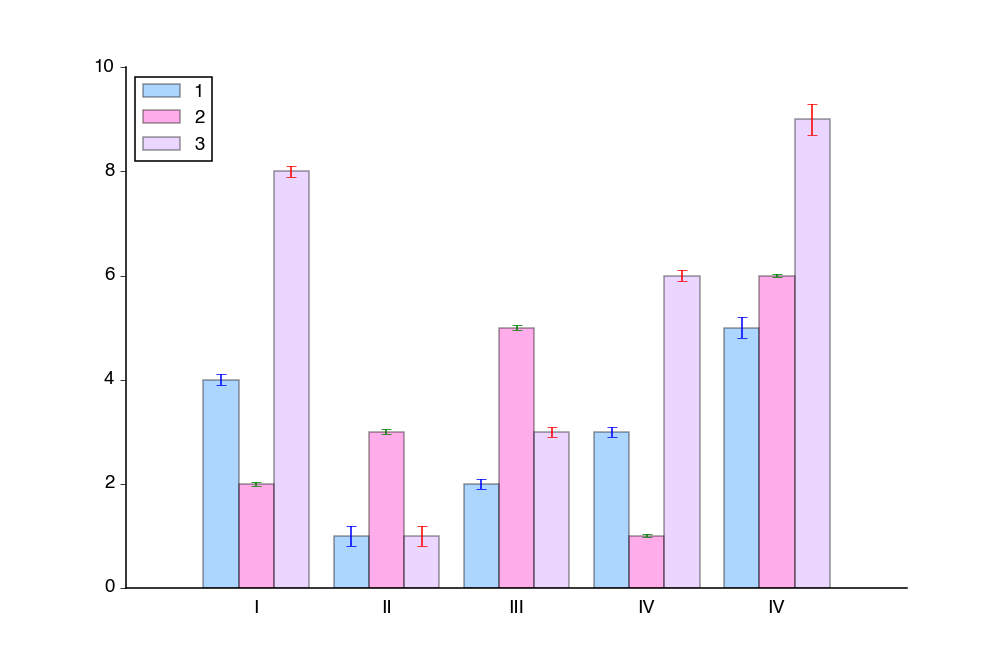
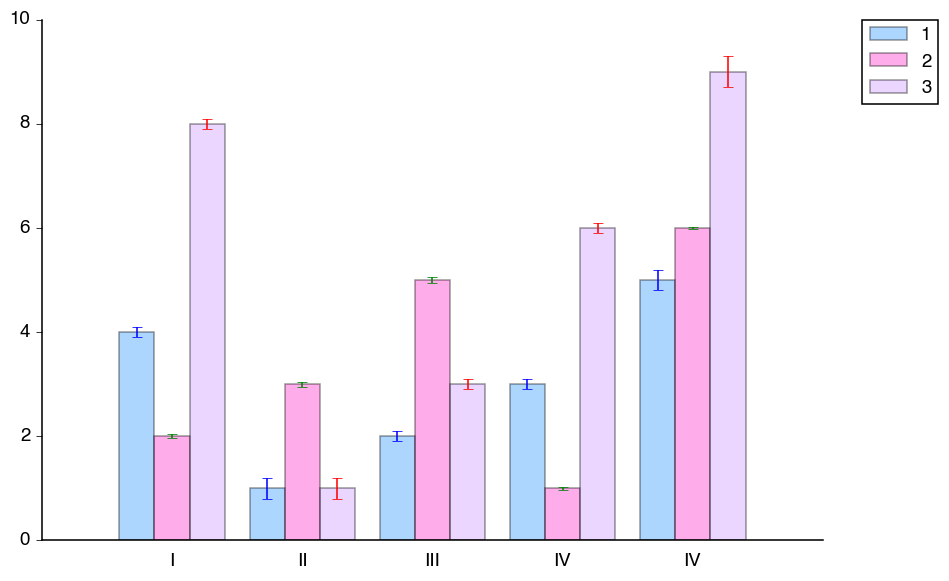
modified 062915

diff --git a/Plots/PublicationFigures.py b/Plots/PublicationFigures.py
@@ -17,8 +17,8 @@ import matplotlib.pyplot as plt
 import matplotlib
 matplotlib.use('Agg') # use 'Agg' backend
 
-plotType = 'beeswarm'
-Style = 'Twin'
+plotType = 'barplot'
+Style = 'Vstack'
 exampleFolder = 'C:/Users/Edward/Documents/Assignments/Scripts/Python/Plots/example/'
 
 
@@ -59,7 +59,7 @@ class PublicationFigures(object):
             self.SavePath = SavePath
         if self.SavePath is None: # save to current working directory
             self.SavePath = os.path.join(os.getcwd(),'Figure.eps')
-        self.fig.savefig(self.SavePath)
+        self.fig.savefig(self.SavePath, bbox_inches='tight')
         
     """ ####################### Plot utilities ####################### """      
     def Traces(self, groupings=None, scalebar=True, annotation=None, 
@@ -123,8 +123,10 @@ class PublicationFigures(object):
         
         self.SetDefaultAxis()
         self.axs.xaxis.set_ticks_position('none')
-        plt.xticks(self.x, self.data.series['x'][0])
-        self.axs.legend(loc=0)
+        #plt.xticks(self.x, self.data.series['x'][0])
+        self.SetCategoricalXAxis()
+        if n>0: # for multiple series, add legend
+            self.axs.legend(bbox_to_anchor=(1.05, 1), loc=2, borderaxespad=0.)
        
     def Histogram(self):
         """Plot histogram"""
@@ -156,6 +158,7 @@ class PublicationFigures(object):
         self.fig = plt.gcf()
      
     def LinePlot(self, Style='Vstack'):
+        self.x = range(len(self.data.series['x'][0])) # set categorical x
         if Style == "Vstack":
             self.LinePlotVstack()
         elif Style == "Twin":
@@ -163,30 +166,30 @@ class PublicationFigures(object):
         else:
             TypeError('Unrecognized Line Plot Style')
         self.SetAspectRatio(r=2, adjustable='box-forced',continuous=True)
-        self.SetLineXAxis() # make some space for each category        
+        self.SetCategoricalXAxis() # make some space for each category
+        # Add some margins to the plot so that it is not touching the axes
+        plt.margins(0.25,0.25)
 
     def LinePlotTwin(self, colors=('k','r')):
         """ Line plots with 2 y-axis"""
-        self.x = range(1,len(self.data.series['x'][0])+1)
         self.fig, self.axs = plt.subplots(nrows=1,ncols=1, sharex=True)
         self.axs = [self.axs, self.axs.twinx()]
         for n, ax in enumerate(self.axs):
              # Plot error bar
-            ax.errorbar(self.x,self.data.series['y'][n],
-                yerr = [self.data.stats['y']['ebp'][n],
-                self.data.stats['y']['ebn'][n]], color=colors[n])
+            ax.errorbar(self.x, self.data.series['y'][n], color=colors[n],
+                        yerr = [self.data.stats['y']['ebp'][n],
+                                self.data.stats['y']['ebn'][n]])
         self.SetTwinPlotAxis(colors = colors) # set twin plot subplot axes
 
     def LinePlotVstack(self):
         """ Line plots stacked vertically"""
-        self.x = range(1,len(self.data.series['x'][0])+1)
         self.fig, self.axs = plt.subplots(nrows=self.data.num['y'],ncols=1,
                                           sharex=True)
         for n, ax in enumerate(self.axs):
             # Plot error bar
-            ax.errorbar(self.x,self.data.series['y'][n],
-                yerr = [self.data.stats['y']['ebp'][n],
-                self.data.stats['y']['ebn'][n]], color='k')
+            ax.errorbar(self.x,self.data.series['y'][n], color='k',
+                        yerr = [self.data.stats['y']['ebp'][n],
+                                self.data.stats['y']['ebn'][n]])
         self.SetVstackAxis() # set vertical stacked subplot axes
         
     """ ####################### Axis schemas ####################### """
@@ -242,13 +245,17 @@ class PublicationFigures(object):
                 ax.spines['bottom'].set_visible(False)   
         self.fig.tight_layout(h_pad=0.01)
                        
-    def SetLineXAxis(self): # additional for plots with categorical data
+    def SetCategoricalXAxis(self): # additional for plots with categorical data        
         # change the x lim on the last, most buttom subplot
-        self.axs[-1].set_xlim([0,len(self.data.series['x'][0])+1])
-        plt.xticks(self.x, self.data.series['x'][0]) # x label
-        # Add some margins to the plot so that it is not touching the axes
-        plt.margins(0.025,0.025)
-        
+        if isinstance(self.axs, np.ndarray):
+            ax = self.axs[-1]
+        else: # single axis object
+            ax = self.axs
+        if ax.get_xlim()[0] >= self.x[0]:
+            ax.set_xlim(ax.get_xticks()[0]-1,ax.get_xlim()[-1])
+        if ax.get_xlim()[-1] <= self.x[-1]:
+            ax.set_xlim(ax.get_xlim()[0], ax.get_xticks()[-1]+1)
+        plt.xticks(self.x, self.data.series['x'][0])       
         
     def SetDiscontinousAxis(self, x=None, y=None):
         """Plot with discontious axis. Allows one discontinuity for each axis.
@@ -288,8 +295,7 @@ class PublicationFigures(object):
     def SetYTickLabelIncrement(self): ###???? need to consider
         def SYTLI(ax):        
             Y = ax.get_yticks()
-            minY, maxY = self.roundto125(np.min(Y)), self.roundto125(np.max(Y))
-            
+            minY, maxY = self.roundto125(np.min(Y)), self.roundto125(np.max(Y))    
         SYTLI_vec = np.vectorize(SYTLI) # vectorize closure
         SYTLI_vec(self.axs)
         
@@ -321,11 +327,11 @@ class PublicationFigures(object):
         xtext2, ytext2 = xi+X+X/10.0, yi+Y/2.0 # vertical
         # Draw text
         txt1 = self.axs.text(xtext1, ytext1, xlab, ha='center',va='top', 
+                             color=color)        
+        self.AdjustText(txt1) # adjust texts just added
+        txt2 = self.axs.text(xtext2, ytext2, ylab, ha='left',va='center',
                              color=color)
-        self.AdjustText(txt1)
-        txt2 = self.axs.text(xtext2, ytext2, ylab, ha='left',va='center', 
-                             color=color)
-        self.AdjustText(txt2)
+        self.AdjustText(txt2) # adjust texts just added
         # Draw Scale bar
         self.axs.annotate("", xy=(xi,yi), xycoords='data',  # horizontal
                           xytext=(xi+X,yi), textcoords = 'data', 
@@ -337,11 +343,13 @@ class PublicationFigures(object):
                           annotation_clip=False,arrowprops=dict(arrowstyle="-",
                           connectionstyle="arc3", shrinkA=0, shrinkB=0, 
                           color=color))
+        #txtbb = txt1.get_bbox_patch().get_window_extent()
+        #print(txtbb.bounds)
+        #print(self.axs.transData.inverted().transform(txtbb).ravel())
         
     def TextAnnotation(self, text="", position='south'):
         return # not done yet
         
-    
     def AnnotateOnGroup(self, m, text='*', vpos=None):
         """Help annotate statistical significance over each group in Beeswarm /
         bar graph. Annotate several groups at a time.
@@ -360,8 +368,8 @@ class PublicationFigures(object):
         X = self.axs.get_xticks()
         for k in m:
             txt = self.axs.text(X[k], vpos, text, ha='center',va='top')
-        # adjust text so that it is not overlapping with data or title
-        self.AdjustText(txt)
+            # adjust text so that it is not overlapping with data or title
+            self.AdjustText(txt)
     
     def AnnotateBetweenGroups(self, m=0, n=1, text='*', hgap=0):
         """Help annotate statistical significance between two groups in the
@@ -405,14 +413,23 @@ class PublicationFigures(object):
                           connectionstyle="arc3", shrinkA=0, shrinkB=0))
                           
     def AdjustText(self,txt):
-        """Adjust text so that it is not overlapping with data or title"""
+        """Adjust text so that it is not being cutoff"""
+        #renderer = plt.gca().get_renderer_cache()
         txt.set_bbox(dict(facecolor='w', alpha=0, boxstyle='round, pad=1'))
-        txtbb = txt.get_bbox_patch().get_window_extent()
-        ymax = self.axs.transData.inverted().transform(txtbb).ravel()[-1]
-        ybnd = self.axs.get_ybound()
+        plt.draw() # update the text draw
+        txtbb = txt.get_bbox_patch().get_window_extent() # can specify render
+        xmin, ymin, xmax, ymax = tuple(self.axs.transData.inverted().
+                                        transform(txtbb).ravel())
+        xbnd, ybnd = self.axs.get_xbound(), self.axs.get_ybound()
+        if xmax > xbnd[-1]:
+            self.axs.set_xbound(xbnd[0], xmax)
+        if xmin < xbnd[0]:
+            self.axs.set_xbound(xmin, xbnd[-1])
         if ymax > ybnd[-1]:
             self.axs.set_ybound(ybnd[0], ymax)
-            
+        if ymin < ybnd[0]:
+            self.axs.set_ybound(ymin, ybnd[-1])
+        
     def RemoveAnnotation(self):
         """Remove all annotation and start over"""
         self.axs.texts = []
@@ -432,7 +449,8 @@ class PublicationFigures(object):
         """Change font properties of all axes
         fontsize: size of the font, specified in the global variable
         fontname: fullpath of the font, specified in the global variable
-        textsOnly: for annotation texts only, avoid iterating over other items
+        items: select a list of items to change font. ['title', 'xlab','ylab',
+               'xtick','ytick', 'texts','legend','legendtitle']
         """
         if (fontname is None) and (fontsize is None):
             return
@@ -441,9 +459,11 @@ class PublicationFigures(object):
         def CF(ax):
             itemDict = {'title':[ax.title], 'xlab':[ax.xaxis.label], 
                         'ylab':[ax.yaxis.label], 'xtick':ax.get_xticklabels(),
-                        'ytick':ax.get_yticklabels(), 'anno':ax.texts, 
-                        'legend': [] if ax.legend_ is None else ax.legend_.get_texts(), 
-                        'legendtitle':[] if ax.legend_ is None else [ax.legend_.get_title()]}
+                        'ytick':ax.get_yticklabels(), 'texts':ax.texts, 
+                        'legend': [] if ax.legend_ is None 
+                                        else ax.legend_.get_texts(), 
+                        'legendtitle':[] if ax.legend_ is None 
+                                            else [ax.legend_.get_title()]}
             itemList = []
             if items is None:
                 for v in itemDict.itervalues():
@@ -491,3 +511,4 @@ if __name__ == "__main__":
     # Final clean up
     K.SetFont() # change to specified font properties
     K.fig.set_size_inches(9, 6) # set it for now.
+    K.Save()

diff --git a/Plots/ImportData.py b/Plots/ImportData.py
@@ -16,25 +16,28 @@ class Protocol(object): # for composition
 class NeuroData(object):
     """Read electrophysiology data file
     """
-    def __init__(self, dataFile=None):
+    def __init__(self, dataFile=None, old=False):
         """Initialize class"""
         self.Voltage = {}
         self.Current = {}
         self.Stimulus = {}
         self.Protocol = Protocol() # composition
         if dataFile is not None and isinstance(dataFile, str):
-            self.LoadNeuroData(dataFile)
+            # load directly if all the conditions are met
+            self.LoadData(dataFile=dataFile, old=old) 
         else:
             IOError('Unrecognized data file input')
 
-    def LoadNeuroData(self, dataFile):
+    def LoadData(self, dataFile, old=False):
         """Load data in text file"""
         # check file exists
         if not os.path.isfile(dataFile):
             IOError('%s does not exist' %dataFile)
-        # Check data format to evoke proper load method
-        #self.LoadDataFile(dataFile)
-        self.LoadOldDataFile(dataFile)
+        # Evoke proper load method
+        if old:
+            self.LoadOldDataFile(dataFile)
+        else:
+            self.LoadDataFile(dataFile)
             
     
     def LoadDataFile(self, dataFile):
@@ -45,6 +48,7 @@ class NeuroData(object):
         """Read Old .dat format data file"""
         
         self.Protocol.numChannels = numChannels # hard set
+        self.Protocol.readDataFrom = os.path.abspath(dataFile).replace('\\','/') # store read location
         with open(dataFile, 'rb') as fid:
             fid.seek(6, 0) # set to position 6 from the beginning of the file
             self.Protocol.infoBytes = np.fromfile(fid, np.int32, 1) # size of header
@@ -83,9 +87,9 @@ class NeuroData(object):
             self.Protocol.drugName=self.readVBString(fid)
             self.Protocol.exptDesc=self.readVBString(fid)
             self.Protocol.computerName=self.readVBString(fid)
-            self.Protocol.savedFileName=self.readVBString(fid)
+            self.Protocol.savedFileName=os.path.abspath(self.readVBString(fid)).replace('\\','/')
             self.Protocol.fileName = self.Protocol.savedFileName
-            self.Protocol.linkedFileName=self.readVBString(fid)
+            self.Protocol.linkedFileName=os.path.abspath(self.readVBString(fid)).replace('\\','/')
             self.Protocol.acquisitionDeviceName=self.readVBString(fid)
             self.Protocol.traceKeys=self.readVBString(fid)
             self.Protocol.traceInitValuesStr=self.readVBString(fid)
@@ -156,9 +160,6 @@ class ImageData(object):
         self.Protocol = {}
         if dataFile is not None and isinstance(dataFile, str):
             self.LoadImageData(dataFile)
-        else:
-            IOError('Unrecognized image file input')
-    
 
 class FigureData(object):
     """Data for plotting
@@ -170,9 +171,7 @@ class FigureData(object):
         self.names = {'x':[],'y':[],'z':[]}
         self.num = {'x':[],'y':[],'z':[]} # count number of data sets
         if dataFile is not None and isinstance(dataFile, str):
-            self.LoadFigureData(dataFile)
-        else:
-            IOError('Unrecognized data file input')
+            self.LoadFigureData(dataFile)        
             
     def LoadFigureData(self, dataFile):
         """Read text data for figure plotting"""
@@ -219,6 +218,85 @@ class FigureData(object):
         else: # unrecognized type
             TypeError('Unrecognized data type')
             
+    def Neuro2Figure(self, data, channels=None, streams=None):
+        """Use NeuroData method to load and parse trace data to be plotted
+        data: an instance of NeuroData, ro a list of instances
+        channels: list of channels to plot, e.g. ['A','C','D']
+        streams: list of data streams, e.g. ['V','C','S']
+        """
+        # Check instance
+        if isinstance(data, NeuroData):
+            data = [data] # convert to list
+
+        # initialize notes, stored in stats attribute        
+        self.stats['y']['notes'] = []
+        notes = "%s %.1f mV %d pA channel %s WCTime %s min"
+        for n, d in enumerate(data): # iterate over all data
+             # Time data
+            self.series['x'].append(np.arange(0, d.Protocol.sweepWindow+
+                          d.Protocol.msPerPoint, d.Protocol.msPerPoint))
+            self.names['x'].append('ms') # label unit
+             # iterate over all the channels
+            for c in channels:
+                # iterate over data streams
+                for s in streams:
+                    tmp = {'V': d.Voltage, 'C':d.Current, 'S': d.Stimulus}.get(s)
+                    if tmp is None or not bool(tmp):
+                        continue
+                    tmp = tmp[c]
+                    if tmp is None:
+                        continue
+                    self.series['y'].append(tmp)
+                    self.names['y'].append((s, c))
+                    if s == 'V':
+                        volt_i = tmp[0]
+                    if s == 'C':
+                        cur_i = tmp[0]
+                dtime = self.sec2hhmmss(d.Protocol.WCtime)
+                # Notes: {path} Initial: {voltage 0.1f mV} {current %d pA} \
+                #                   WC Time: 1:12:30.0 min 
+                notesstr = notes %(d.Protocol.readDataFrom,  volt_i, cur_i, c,dtime)
+                self.stats['y']['notes'].append(notesstr)
+    
+    @staticmethod
+    def sec2hhmmss(sec):
+         m, s = divmod(sec, 60)
+         h, m = divmod(m, 60)
+         return("%d:%d:%0.1f" % (h, m, s))
+
+      
             
 if __name__ == '__main__':
-    K = NeuroData(dataFile)
+    data = NeuroData(dataFile, old=True)
+    figdata = FigureData()
+    figdata.Neuro2Figure(data, channels=['A','C','D'], streams=['V','C','S'])
+    # data.Voltage = {}
+    # data.Current = {}
+    # data.Stimulus = {}
+    # data.Protocol = Protocol()
+    
+    
+    
+    
+    
+    
+    
+    
+    
+    
+    
+    
+    
+    
+    
+    
+    
+    
+    
+    
+    
+    
+    
+    
+    
+    
